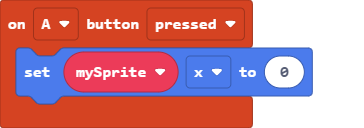
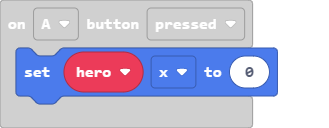
Error corregido

diff --git a/main.ts b/main.ts
@@ -1,9 +1,9 @@
 controller.A.onEvent(ControllerButtonEvent.Pressed, function () {
-    let mySprite: Sprite = null
-    mySprite.x = 0
+    hero.x = 0
 })
+let hero: Sprite = null
 scene.setBackgroundColor(9)
-let hero = sprites.create(img`
+hero = sprites.create(img`
     . . . . . . . . . . . . . . . . 
     . . . . . . . . . . . . . . . . 
     . . . . . f f f f f . . . . . . 
